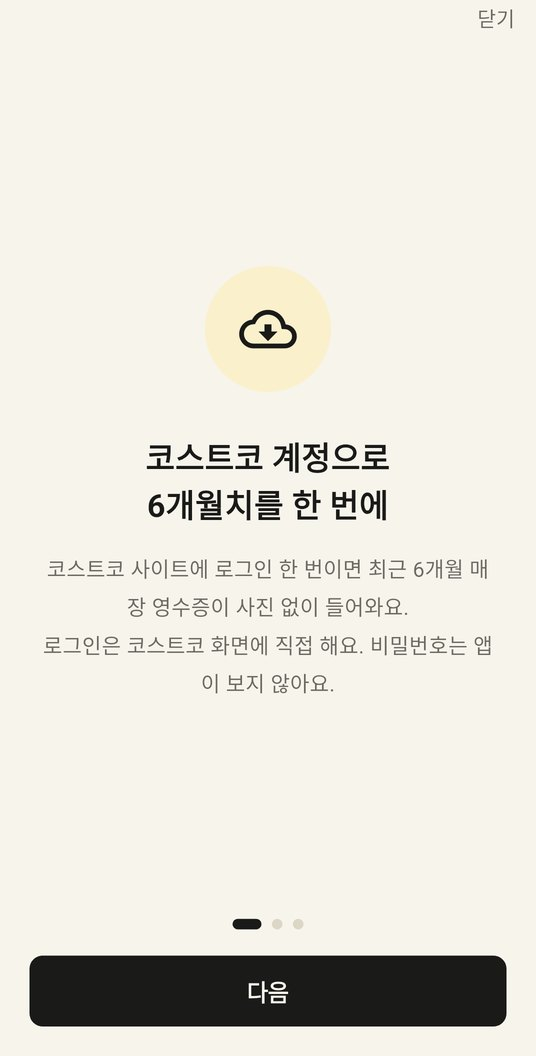
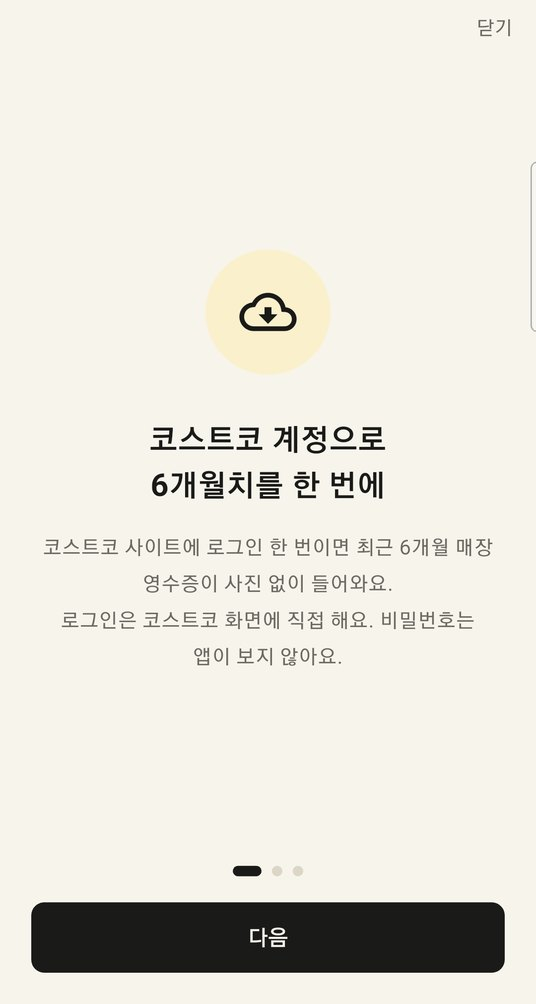
설명서 온보딩 캡처를 1.0.52 실화면으로 바꾼다 (cocosaver QA-311)

diff --git a/manual/index.html b/manual/index.html
@@ -216,9 +216,9 @@ p{margin:0}
       </ul>
     </div>
     <ol class="strip" style="--cols:3">
-      <li><div class="step"><b>1</b>6개월치를 한 번에</div><img width="536" height="1056" src="img/02_onboarding_1.jpg" alt="첫 안내 1장. 코스트코 계정으로 6개월치를 한 번에" loading="lazy"></li>
-      <li><div class="step"><b>2</b>오늘 산 건 사진으로</div><img width="536" height="1056" src="img/02_onboarding_2.jpg" alt="첫 안내 2장. 오늘 산 영수증은 사진으로" loading="lazy"></li>
-      <li><div class="step"><b>3</b>차액 돌려받기</div><img width="536" height="1056" src="img/02_onboarding_3.jpg" alt="첫 안내 3장. 다른 회원이 더 싸게 사면 알려드려요. 지금 가져오기 버튼" loading="lazy"></li>
+      <li><div class="step"><b>1</b>6개월치를 한 번에</div><img width="536" height="1004" src="img/02_onboarding_1.jpg" alt="첫 안내 1장. 코스트코 계정으로 6개월치를 한 번에" loading="lazy"></li>
+      <li><div class="step"><b>2</b>오늘 산 건 사진으로</div><img width="536" height="1004" src="img/02_onboarding_2.jpg" alt="첫 안내 2장. 오늘 산 영수증은 사진으로" loading="lazy"></li>
+      <li><div class="step"><b>3</b>차액 돌려받기</div><img width="536" height="1004" src="img/02_onboarding_3.jpg" alt="첫 안내 3장. 다른 회원이 더 싸게 사면 알려드려요. 지금 가져오기 버튼" loading="lazy"></li>
     </ol>
   </article>
 </section>
